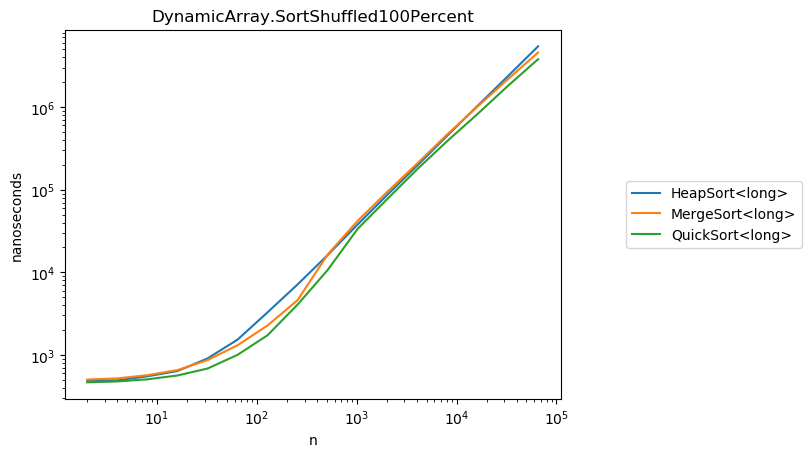
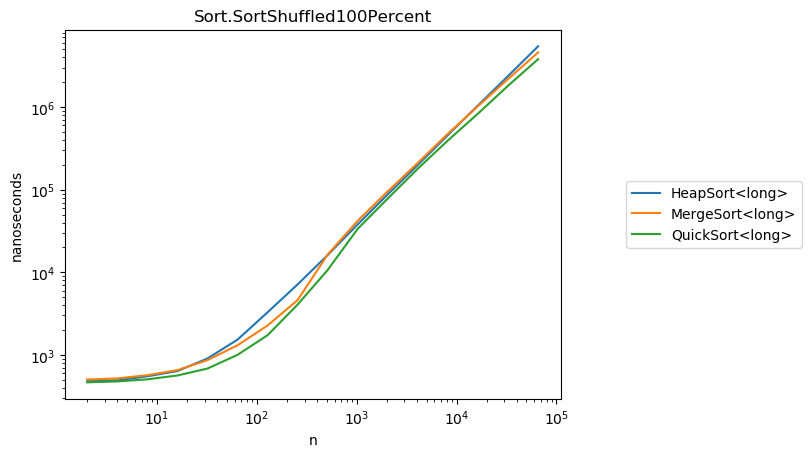
HW07 | report title fix

Changed region(s): [[0.185, 0.0, 0.5857, 0.0613]]

diff --git a/benchmark_classes.py b/benchmark_classes.py
@@ -2,7 +2,6 @@
 
 import pandas
 import json
-import matplotlib.pyplot as plt
 
 fname = "./build/result.json"
 
@@ -67,7 +66,7 @@ def renderDataFrame(df, method_name):
     pivot = df[df["method"] == method_name].pivot(
         index="n", columns="type", values="cpu_time")
     print(pivot)
-    axes = pivot.plot(kind="line", title="DynamicArray.{}".format(
+    axes = pivot.plot(kind="line", title="Sort.{}".format(
         method_name), logx=True, logy=True)
     axes.set_ylabel("nanoseconds")
     lgd = axes.legend(loc='center right', bbox_to_anchor=(1.5, 0.5))
